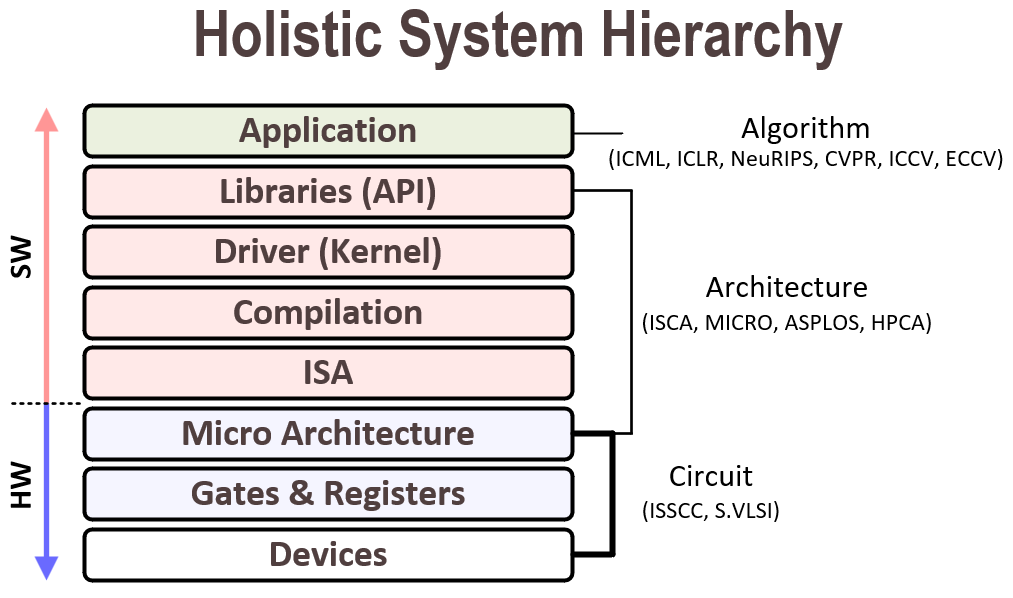
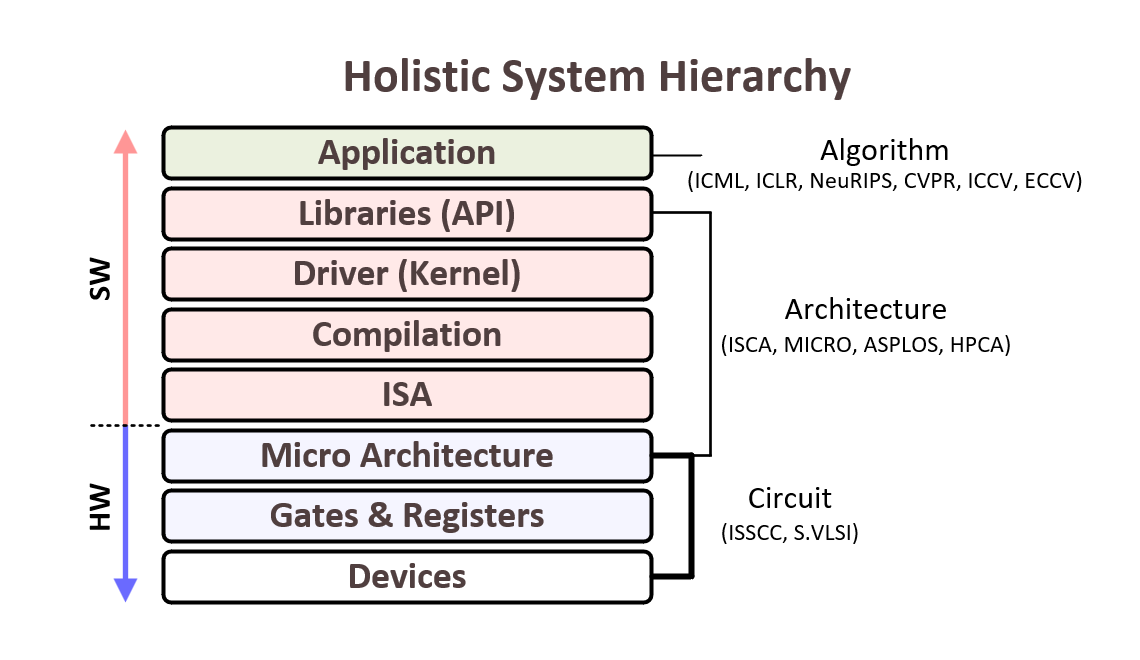
Test9_7

Changed region(s): [[0.0, 0.0, 1.0, 0.9933], [0.612, 0.4515, 0.9181, 0.5719]]

diff --git a/_pages/about.md b/_pages/about.md
@@ -19,7 +19,7 @@ Advised by Professor <span style="color: #0066cc;">**Hoi-Jun Yoo**</span> in <sp
 <h2 style="font-size: 1.7em; font-weight: bold; color: #000;">Research Focus</h2>
 
 <div style="text-align: center;">
-<img src="{{ base_path }}/images/system.png" alt="Holistic System Hierarchy" style="max-width: 100%; height: auto;">
+<img src="{{ base_path }}/images/system.png" alt="Holistic System Hierarchy" style="max-width: 60%; height: auto;">
 </div>
 
 
